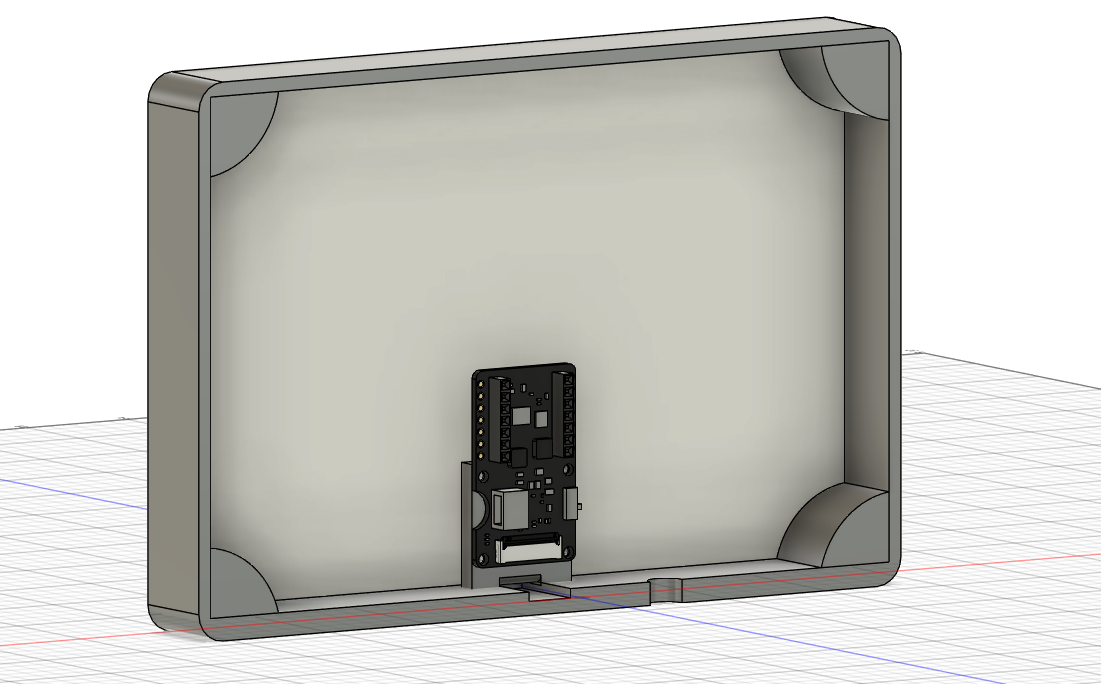
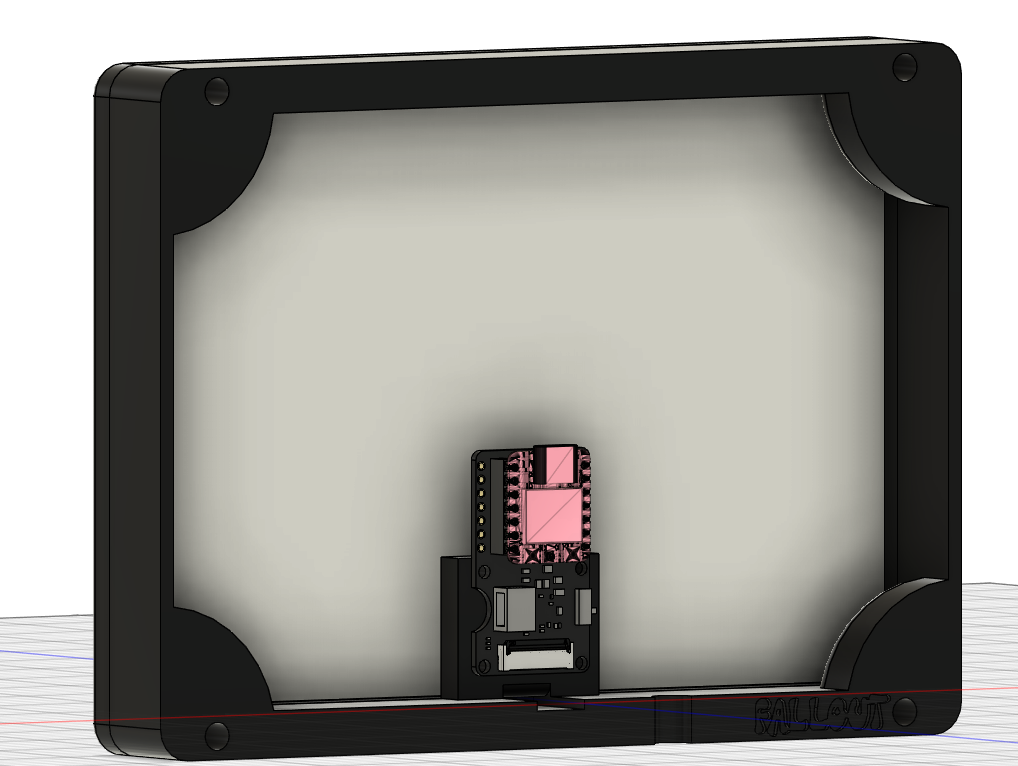
Updated readme with better instructions and photos

diff --git a/README.md b/README.md
@@ -15,17 +15,21 @@ A diy dashboard that is built with the TRMNL software in mind. Can display stuff
 
 ## Build guide
 
-If you are using the same components you can print the case available here [3D files](./3Dfiles). [Case folder](./3Dfiles/CaseOnly) has ready to print files that have the case parts. Use these if you are just printing the case. You will have to print the case and pcb holder seperately. The [full project folder](./3Dfiles/FullProject) has the whole Fusion project including the driver board PCB and the display. You might want to use this if you want to edit the files.
+If you are using the same components you can print the case available here [3D files](./3Dfiles). [Case folder](./3Dfiles/CaseOnly) has ready to print files that have the case parts. Use these if you are just printing the case. The case is designed to be printed in two parts which then are screwed together for the final build. The [full project folder](./3Dfiles/FullProject) has the whole Fusion project including the driver board PCB, ESP-32 and the display. You might want to use this if you want to edit the files. You might also want to adjust some tolerances if your printer has issues with these or you are using different inserts for example. My printer is a pretty budget FDM printer and it didn't have any issues. The two pieces most likely might not fit on the printer at the same time so you might need to print them seperately.
 
-Attach the ESP32 to the driver board using the pins and then connect the display to the driver board. The display should be installed in the case first and the cable routed through the hole made for it. The PCB holder has holes for you to press in heated inserts and then you can screw in 2.5mm screws in to attach the board to holder and then to the case. Finally flash the software through a computer and plug in usb-c power. Then just walkthrough the device setup based on if you are using TRMNL servers or self-hosting.
+After getting the parts printed you can attach the ESP32 to the driver board using the pins and then connect the display to the driver board. The display should be installed in the display holder / first body part first. You should then install 4 heated inserts in each of the corners.
 
-You should check the software section for more detailed software instructions. You can pretty much just use [this tool](https://trmnl.com/flash) to flash the firmware. You should still check the software section for detailed instructions.
+You can then take the second body part (the one with the pcb holder) and install the heated inserts for the driver board pcb (there are 4 holes). You can then screw in the pcb with the 2.5mmx5mm screws and attach the body parts together using the same screws remembering to route the display cable through the hole below the pcb holder.
+
+Finally flash the software through a computer and plug in usb-c power. Then just walkthrough the device setup based on if you are using TRMNL servers or self-hosting.
+
+You should check the software section for more detailed software instructions. As a TL;DR You can pretty much just use [this tool](https://trmnl.com/flash) to flash the firmware. You should still check the software section for detailed instructions.
 
 If self-hosting follow the guide in the software section or the offical TRMNL guide available in the TRMNL dev [docs](https://docs.trmnl.com/go/diy/byod-s).
 
 If you plan on using TRMNL servers. After flashing the firmware you have to buy access and then claim the device through the site. [Claim your device](https://trmnl.com/claim-a-device).
 
-For mounting I used command strips / double sided tape. I think this is better than screws for example because the device is light enough to just be held up with double sided tape. Also making the device attach with screws reliably would be harder and in my opinion overkill.
+For mounting the device I used command strips / double sided tape. I think this is better than screws for example because the device is light enough to just be held up with double sided tape. Also making the device attach with screws reliably would be harder and in my opinion overkill.
 
 If you don't have an outlet / power source next to you mounting point you can use a battery. The Seeed e-paper driver board comes with a JST connection to connect a battery and it seems to be pretty easy. I didn't need this since I have an outlet at the perfect spot to plug into and an extra usb-c power source laying around.
 
@@ -63,23 +67,31 @@ I haven't setup my device this way yet and the setup flow can change so for the 
 
 NOTE!
 
-Self-hosting does require alot more setup compared to buying access. Currently there are no ways of self-hosting that include the plugins made for the TRMNL hosted solution. Projects like Terminus are trying to make this better but they still aren't fully compatible and the plugin support is one of the major things still missing. I would suggest the hosted solution to everyone who isn't already experienced in home labbing and comfortable with self hosting services.
+Self-hosting does require a lot more setup compared to buying access. Currently there are no ways of self-hosting that include the plugins made for the TRMNL hosted solution. Projects like Terminus are trying to make this better but they still aren't fully compatible and the plugin support is one of the major things still missing. I would suggest the hosted solution to everyone who isn't already experienced in home labbing and comfortable with self hosting services.
 
-For self-hosting I will explain what I did in order to get it working. There are multiple OSS ways you can implement a self-hosted version of a TRMNL server. I used [Terminus](https://github.com/usetrmnl/terminus) which is the most popular way of doing this and is the closest to the hosted solution in terms of features. The Terminus project is still in beta and not 100% equal to just buying TRMNL access. They do have extensions and they are working on making the importing plugins possible from the hosted version. For me since I already have a home server I chose this route to save some money and maybe learn a thing or two. There are already existing guides by on [the Terminus GitHub page](https://github.com/usetrmnl/terminus) and [in the TRMNL Help forum by Mario](https://help.trmnl.com/en/articles/12263392-connect-your-device-to-terminus-byos). Mario's guide covers how to sync your device to a server and the GitHub guide covers setting up the server itself. I have tried to summarise the main points here but if you get stuck check these.
+For self-hosting I will explain what I did in order to get it working. There are multiple OSS ways you can implement a self-hosted version of a TRMNL server. I used [Terminus](https://github.com/usetrmnl/terminus) which is the most popular way of doing this and is the closest to the hosted solution in terms of features. The Terminus project is still in beta and not 100% equal to just buying TRMNL access. They do have extensions and they are working on making the importing plugins possible from the hosted version. It still isn't fully inline with the TRMNL hosted solution.
 
-So for starters you should have something to host this on. I used docker compose on my unraid server. First I cloned the [Terminus repo](https://github.com/usetrmnl/terminus). The service should now be available at [https://localhost:2443](https://localhost:2443). More docker info [here on the Termninus Github page](https://github.com/usetrmnl/terminus/blob/main/doc/docker.adoc).
+For me since I already have a home server I chose this route to save some money and maybe learn a thing or two. There are already existing guides by on [the Terminus GitHub page](https://github.com/usetrmnl/terminus) and [in the TRMNL Help forum by Mario](https://help.trmnl.com/en/articles/12263392-connect-your-device-to-terminus-byos). Mario's guide covers how to sync your device to a server and the GitHub guide covers setting up the server itself. I have tried to summarise the main points here but these can help you if you want to know more about this etc.
 
-Then on the setup screen for the TRMNL display you should connect to the wifi hotspot on your phone and use the sign in functionality to view the setup web portal. You can navigate to the advanced software section and click custom server input the local address which should be `http://HostedIp:2300` to the api server input as well as your wifi credentials. If everything is good you should see a "Welcome to Terminus" screen.
+So for starters you should have something to host this on. I used docker compose on my unraid server. I first installed the compose manager plus plugin from the unraid community app store. Then i just inputted the docker compose file available in [the terminus repo](https://github.com/usetrmnl/terminus/blob/main/compose.yml). A .env file should be created automatically. You can view the [Terminus github page configuration section](https://github.com/usetrmnl/terminus/blob/main/doc/configuration.adoc). It has great information on what the .env file includes and what each variable means.
 
-Even though the self-hosted setup will work I might still move onto the hosted solution just for the plugins. As I said before the plugins are really important for this device and without the support for them I don't feel like the maximum potential is reached. The extensions in Terminus do get close but still aren't perfect. I hope they can get the importing and exporting working soon. So as a suggestion if you have the money I would buy access to the TRMNL hosted servers just for the ease of use and the ecosystem around the hosted environtment. Still I have attached my current main screen on my TRMNL incase you do end up self-hosting and want a simple calendar.
+Then I accessed the webui which was available at `http://HostedIp:2300`. Here I created a new user and password. Then I was able to access the web dashboard. It looks like this
+
+![Wiring diagram](./Media/TerminusDashboardPreview.png "The web dashboard for Terminus")
+
+Here you can navigate interface to browse different extensions. Some of them can be directly installed and some need some extra configuration. I have included a customized verison of a calendar that I have modified to work on the self-hosted version. (All credit goes to the original creator and I just edited their code). You can use the devices section to add a new device.
+
+After flashing the software to the TRMNL itself. You can then connect it to power and see the screen of the TRMNL display you should connect to the wifi hotspot on your phone and use the sign in functionality on your phone to view the setup web portal (kind of like what you need to do on some public wifis to get online). You can navigate to the advanced software section and click custom server input the local address which should be `http://HostedIp:2300` to the api server input as well as your wifi credentials. If everything is good you should see a "Welcome to Terminus" screen.
+
+Even though the self-hosted setup will work I might still move onto the hosted solution just for the plugins. The extensions in Terminus do get close but still aren't perfect and need some work to get working. I hope they can get the one click importing and exporting working soon. So as a suggestion if you have the money I would buy access to the TRMNL hosted servers just for the ease of use and the ecosystem around the hosted environment. Still I have attached my current main screen on my TRMNL incase you do end up self-hosting and want a simple calendar.
 
 ## More info
 
-I will be using the opensource TRMNL software and will be self-hosting the server. If you are replicating my design but can't self-host there is a one time purchase of 43,95€ to use TRMNL servers. TRMNL software Github [Repo](https://github.com/usetrmnl/trmnl-firmware) and TRMNL website [Trmnl.com](https://trmnl.com/). TRMNl has a large [plugin environment](https://trmnl.com/integrations) and a user made [Recipes](https://trmnl.com/recipes). These plugins are the life blood of the device in my opinion and makes it possible to customize what is displayed according to what you need. For example if you are interested Formula 1 you can use the Formula 1 plugin to follow the races.
+I will be using the opensource TRMNL software and will be self-hosting the server. If you are replicating my design but can't self-host there is a one time purchase of 43,95€ to use TRMNL servers. TRMNL software Github [Repo](https://github.com/usetrmnl/trmnl-firmware) and TRMNL website [Trmnl.com](https://trmnl.com/). TRMNl has a large [plugin environment](https://trmnl.com/integrations) and a user made [Recipes](https://trmnl.com/recipes). These plugins are the life blood of the device in my opinion and makes it possible to customize what is displayed according to what you need. For example if you are interested Formula 1 you can use the Formula 1 plugin to follow the races. For self-hosting on terminus these are replaced by extensions which try to do most of the things plugins can.
 
 ## Why it's a bit better ?
 
-So the my diy Nordic TRMNL is made to be wall mountable. This makes it easier to blend in to the environment. Also buying the components directly and self hosting the server makes the whole package a little bit cheaper. I still am thankful that TRMNL decided to open source the software and make the product diyable and self hostable. So there are somethings that I think my TRMNL is better for.
+So the my diy Nordic TRMNL is made to be wall mountable. This makes it easier to blend in to the environment. Also buying the components directly and self hosting the server makes the whole package a little bit cheaper. I am still thankful that TRMNL decided to open source the software and make the product diyable and self-hostable. So there are somethings that I think my TRMNL is better for.
 
 ## Wiring
 
